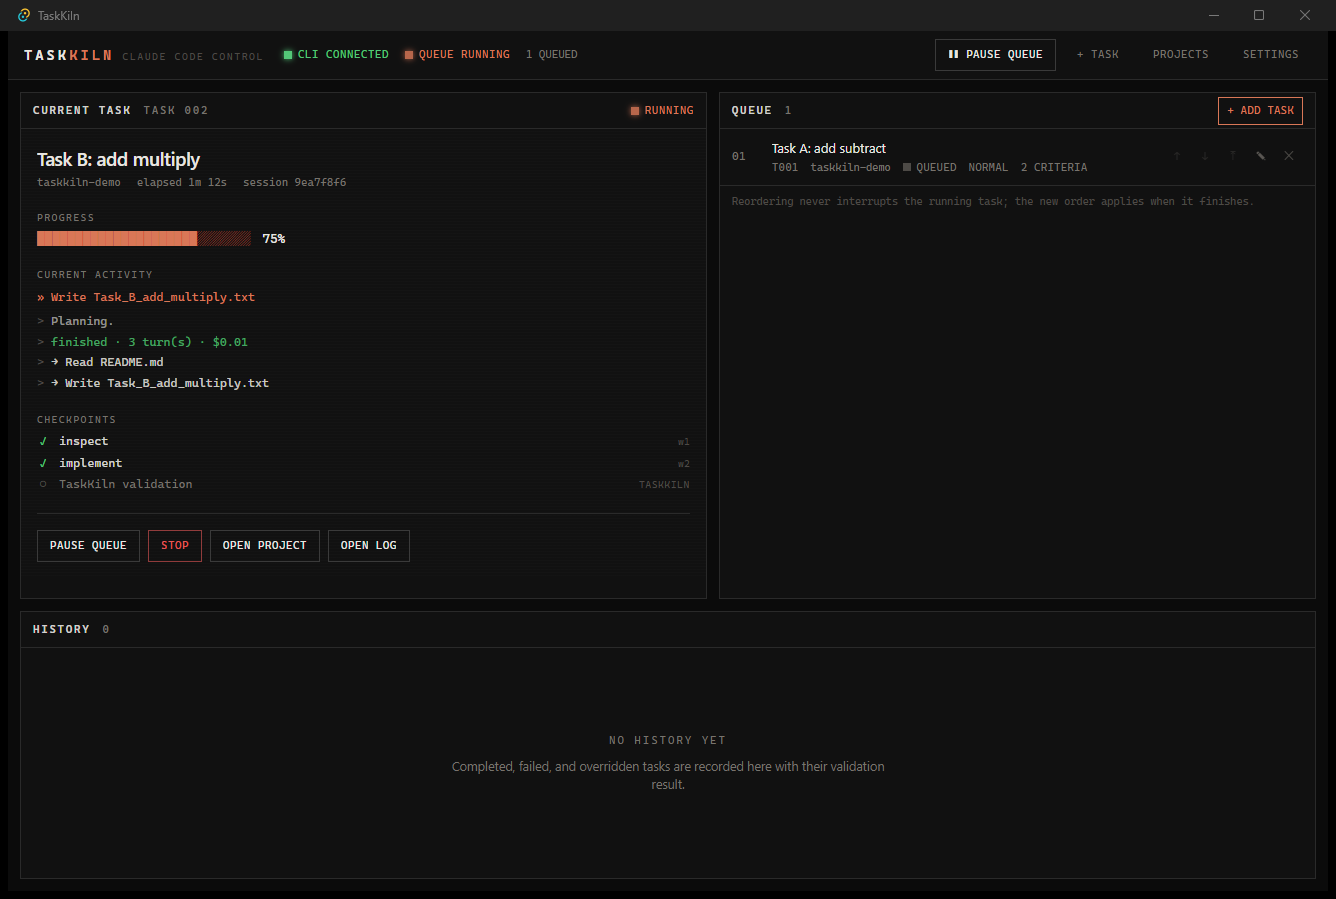
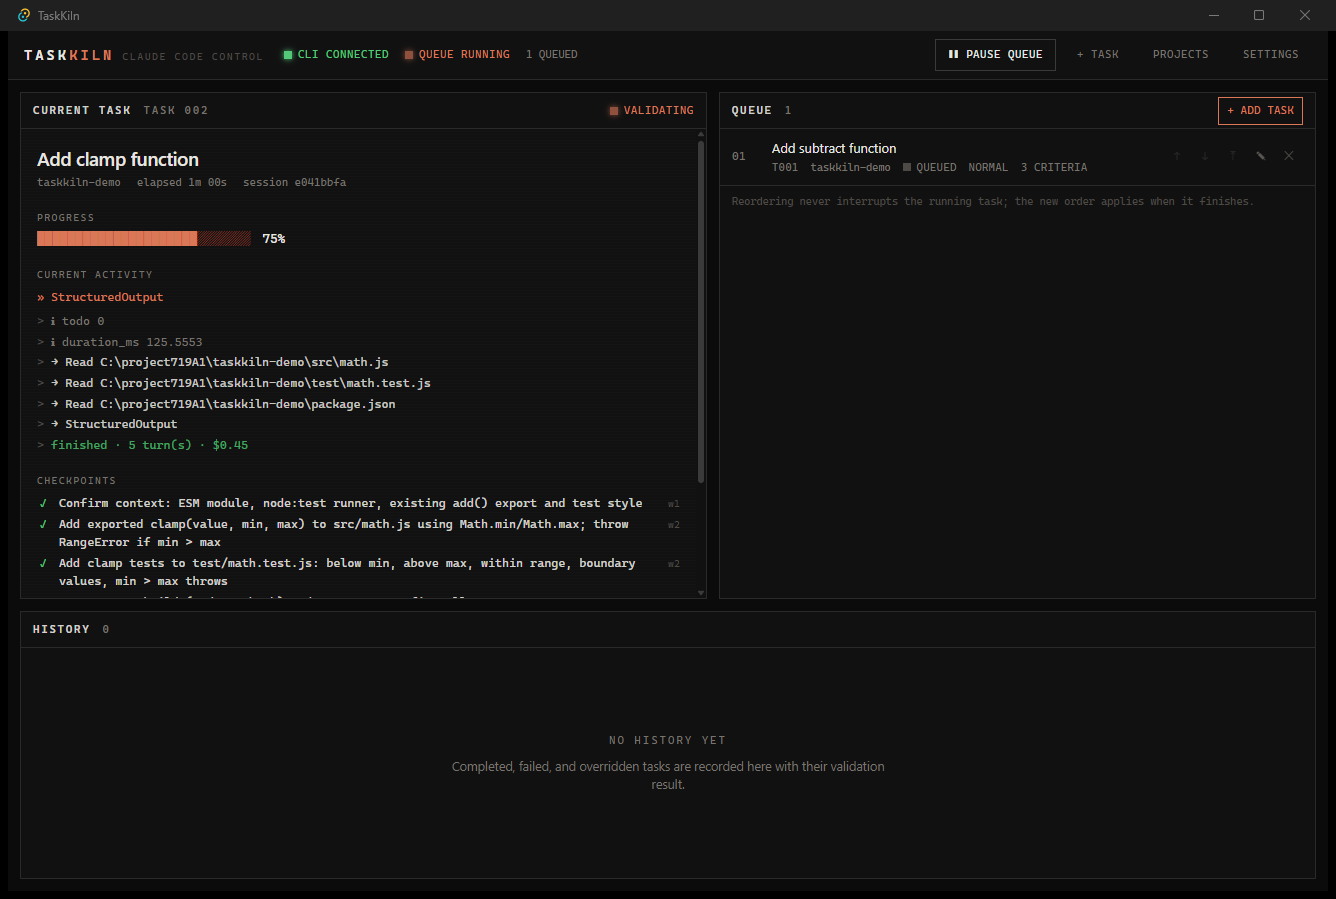
fix: list failing findings first; use real-run screenshots in docs

diff --git a/src/features/validation/AttentionPanel.tsx b/src/features/validation/AttentionPanel.tsx
@@ -29,7 +29,10 @@ function headline(task: Task): { title: string; tone: "err" | "warn" } {
 }
 
 function FindingRows({ findings }: { findings: Finding[] }) {
-  const relevant = findings.filter((f) => f.severity !== "info");
+  // Failures first: they are what blocked the queue.
+  const relevant = findings
+    .filter((f) => f.severity !== "info")
+    .sort((a, b) => Number(b.severity === "fail") - Number(a.severity === "fail"));
   if (relevant.length === 0) return null;
   return (
     <ul className="space-y-1.5">
